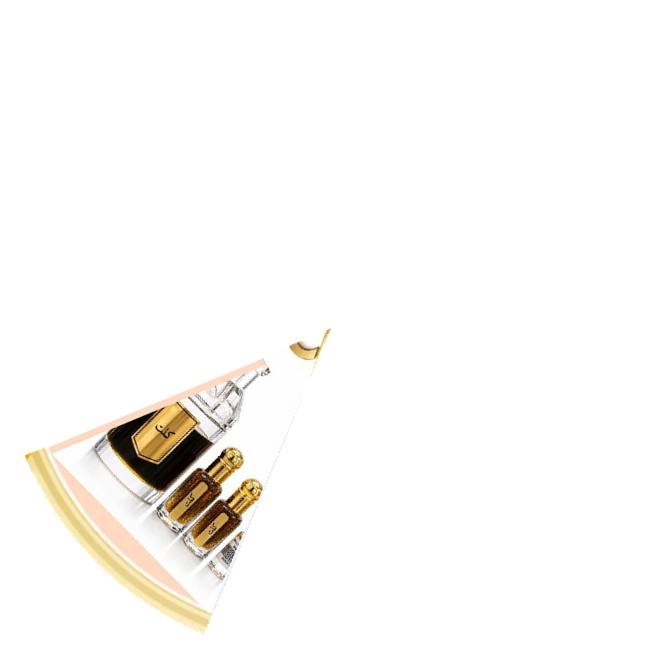
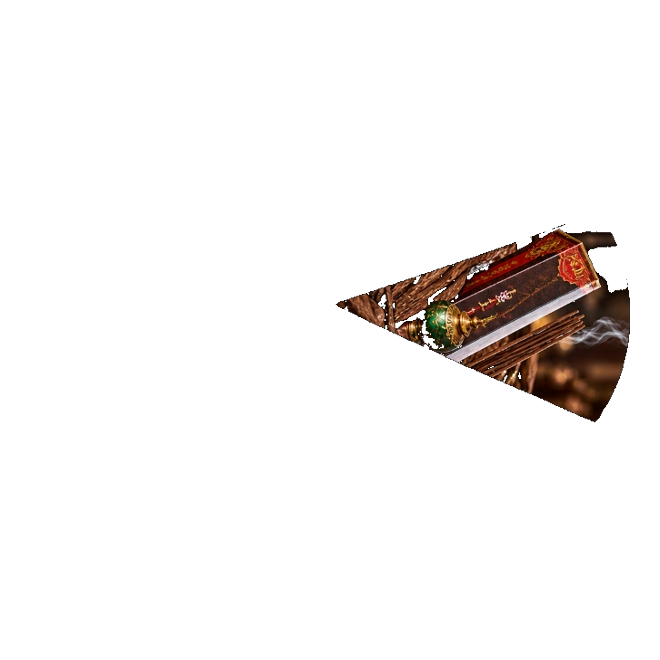
Integrate 8 new custom wedge graphics and black uncropped text tags

Changed region(s): [[0.0303, 0.5455, 0.4242, 0.9697], [0.5152, 0.3333, 0.9697, 0.6364], [0.4242, 0.4848, 0.5152, 0.5455]]

diff --git a/backend/src/db/seed.js b/backend/src/db/seed.js
@@ -58,78 +58,78 @@ const seedDatabase = async () => {
     const rakBranch = await getQuery(`SELECT id FROM branches WHERE code = 'rak'`);
     const sharjahBranch = await getQuery(`SELECT id FROM branches WHERE code = 'sharjah'`);
 
-    // 3. Seed 8 Spin Prizes matching the exact design image with exact pastel color hex codes and prize images
+    // 3. Seed 8 Spin Prizes matching the exact 8 custom wedge design graphics
     const defaultPrizes = [
       {
-        name: 'Romantic Perfume',
-        description: 'Romantic luxury spray perfume',
+        name: 'ST Oud Perfume',
+        description: 'ST Royal luxury oud perfume set',
         weight: 12,
         stock_quantity: 50,
         display_order: 1,
-        color_code: '#FCE1E4',
+        color_code: '#F5E5D3',
         image_url: '/assets/prizes/prize_1.png'
       },
       {
-        name: 'مخلط بركة',
-        description: 'Makhalat Barakah luxury jar',
+        name: 'Burmaluxe Oud',
+        description: 'Burmaluxe royal agarwood fragrance',
         weight: 12,
         stock_quantity: 50,
         display_order: 2,
-        color_code: '#FEF08A',
+        color_code: '#2D1E18',
         image_url: '/assets/prizes/prize_2.png'
+      },
+      {
+        name: 'Thara Beauty Cream',
+        description: 'Thara luxury beauty cream jar',
+        weight: 13,
+        stock_quantity: 60,
+        display_order: 3,
+        color_code: '#FFD54F',
+        image_url: '/assets/prizes/prize_3.png'
       },
       {
         name: 'Oud Powder',
         description: 'Oud body powder Majlis Al Oud',
         weight: 13,
-        stock_quantity: 60,
-        display_order: 3,
-        color_code: '#BAE6FD',
-        image_url: '/assets/prizes/prize_3.png'
-      },
-      {
-        name: 'Exclusive Oud Incense',
-        description: 'Exclusive agarwood incense pack',
-        weight: 13,
         stock_quantity: 80,
         display_order: 4,
-        color_code: '#FECDD3',
+        color_code: '#FDD835',
         image_url: '/assets/prizes/prize_4.png'
       },
       {
-        name: 'Musk Lavender',
-        description: 'Musk lavender perfume attar oil',
+        name: 'Fakhar Gold',
+        description: 'Fakhar Gold Eau De Parfum',
         weight: 12,
         stock_quantity: 50,
         display_order: 5,
-        color_code: '#A7F3D0',
+        color_code: '#FFF8E1',
         image_url: '/assets/prizes/prize_5.png'
       },
       {
-        name: 'Pearl Ajmal',
-        description: 'Pearl Ajmal luxury fragrance',
+        name: 'Pearl Beauty',
+        description: 'Pearl Beauty luxury red fragrance',
         weight: 12,
         stock_quantity: 50,
         display_order: 6,
-        color_code: '#C6F6D5',
+        color_code: '#E53935',
         image_url: '/assets/prizes/prize_6.png'
       },
       {
-        name: 'Musk Al Gharam',
-        description: 'Musk Al Gharam perfume spray',
+        name: 'Musk Lavender',
+        description: 'Musk lavender perfume attar oil set',
         weight: 13,
         stock_quantity: 70,
         display_order: 7,
-        color_code: '#E0F2FE',
+        color_code: '#9C27B0',
         image_url: '/assets/prizes/prize_7.png'
       },
       {
-        name: 'Kalemat Oud',
-        description: 'Kalemat royal oud fragrance',
+        name: 'Exclusive Oud Incense',
+        description: 'Exclusive agarwood incense sticks pack',
         weight: 13,
         stock_quantity: 70,
         display_order: 8,
-        color_code: '#E8DFF5',
+        color_code: '#4E342E',
         image_url: '/assets/prizes/prize_8.png'
       }
     ];

diff --git a/frontend/src/components/SpinWheelCanvas.jsx b/frontend/src/components/SpinWheelCanvas.jsx
@@ -28,25 +28,25 @@ const prizeTranslations = {
 };
 
 const defaultPastelColors = [
-  '#FCE1E4', // Romantic Perfume (Soft Pink)
-  '#FEF08A', // Makhalat Barakah (Soft Yellow)
-  '#BAE6FD', // Oud Powder (Soft Sky Blue)
-  '#FECDD3', // Exclusive Oud Incense (Soft Rose)
-  '#A7F3D0', // Musk Lavender (Soft Mint)
-  '#C6F6D5', // Pearl Ajmal (Soft Lime)
-  '#E0F2FE', // Musk Al Gharam (Pastel Blue)
-  '#E8DFF5'  // Kalemat Oud (Soft Lilac)
+  '#F5E5D3', // ST Oud Perfume (Pastel Cream)
+  '#2D1E18', // Burmaluxe Oud (Dark Rich Wood)
+  '#FFD54F', // Thara Beauty Cream (Golden Yellow)
+  '#FDD835', // Oud Powder (Vibrant Yellow)
+  '#FFF8E1', // Fakhar Gold (Warm Ivory)
+  '#E53935', // Pearl Beauty (Crimson Red)
+  '#9C27B0', // Musk Lavender (Purple Lavender)
+  '#4E342E'  // Exclusive Oud Incense (Rich Agarwood)
 ];
 
 const fallbackPrizesList = [
-  { id: 1, name: 'Romantic Perfume', color_code: '#FCE1E4', image_url: '/assets/prizes/prize_1.png' },
-  { id: 2, name: 'مخلط بركة', color_code: '#FEF08A', image_url: '/assets/prizes/prize_2.png' },
-  { id: 3, name: 'Oud Powder', color_code: '#BAE6FD', image_url: '/assets/prizes/prize_3.png' },
-  { id: 4, name: 'Exclusive Oud Incense', color_code: '#FECDD3', image_url: '/assets/prizes/prize_4.png' },
-  { id: 5, name: 'Musk Lavender', color_code: '#A7F3D0', image_url: '/assets/prizes/prize_5.png' },
-  { id: 6, name: 'Pearl Ajmal', color_code: '#C6F6D5', image_url: '/assets/prizes/prize_6.png' },
-  { id: 7, name: 'Musk Al Gharam', color_code: '#E0F2FE', image_url: '/assets/prizes/prize_7.png' },
-  { id: 8, name: 'Kalemat Oud', color_code: '#E8DFF5', image_url: '/assets/prizes/prize_8.png' }
+  { id: 1, name: 'ST Oud Perfume', color_code: '#F5E5D3', image_url: '/assets/prizes/prize_1.png' },
+  { id: 2, name: 'Burmaluxe Oud', color_code: '#2D1E18', image_url: '/assets/prizes/prize_2.png' },
+  { id: 3, name: 'Thara Beauty Cream', color_code: '#FFD54F', image_url: '/assets/prizes/prize_3.png' },
+  { id: 4, name: 'Oud Powder', color_code: '#FDD835', image_url: '/assets/prizes/prize_4.png' },
+  { id: 5, name: 'Fakhar Gold', color_code: '#FFF8E1', image_url: '/assets/prizes/prize_5.png' },
+  { id: 6, name: 'Pearl Beauty', color_code: '#E53935', image_url: '/assets/prizes/prize_6.png' },
+  { id: 7, name: 'Musk Lavender', color_code: '#9C27B0', image_url: '/assets/prizes/prize_7.png' },
+  { id: 8, name: 'Exclusive Oud Incense', color_code: '#4E342E', image_url: '/assets/prizes/prize_8.png' }
 ];
 
 // Word wrap helper for canvas text without truncation
